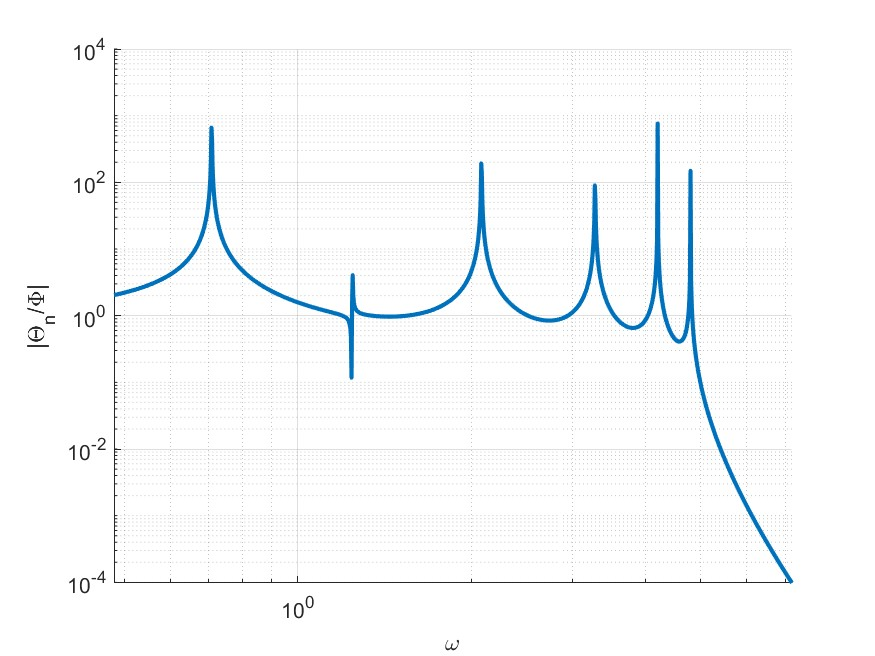
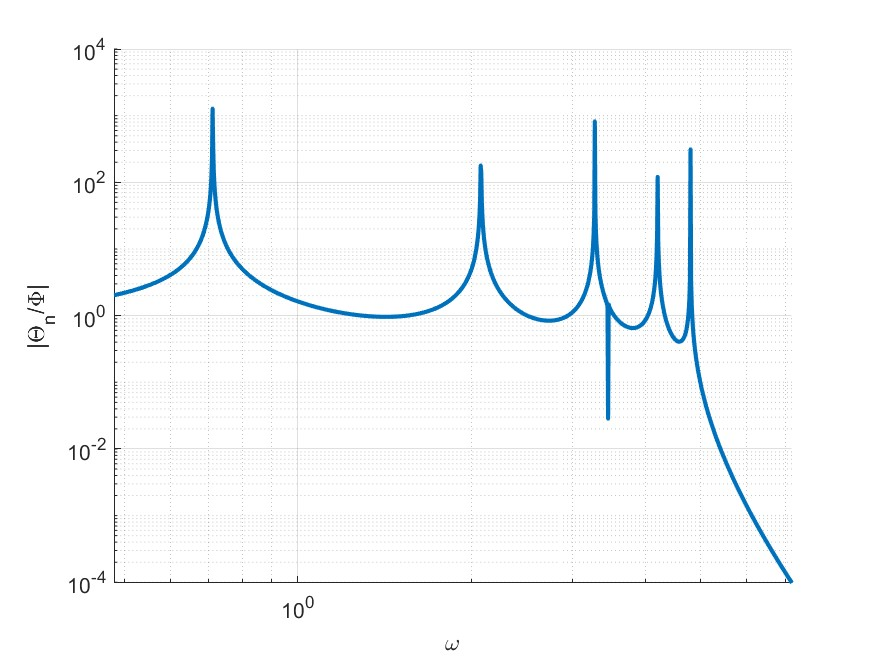
Using Multiple Searches Along Frequency

diff --git a/main.m b/main.m
@@ -327,10 +327,23 @@ function [Ia, ca, T_minimax, x_flag, x_output] = f_T_minimax(n, w, m, na, u, I, 
 end
 
 function T_max_range = f_T_max(n, w, M, C, K, k)
+    % Frequency Spots
+    w_range = [0; w; max(w) * 1.5];
     % Different Local Maximum Transmissibilities
-    T_max_range = zeros(size(w));
-    for j = 1:length(w)
-        T_max_range(j) = f_T(n, w(j), M, C, K, k);
+    T_max_range = zeros(1, length(w_range) - 1);
+    for j = 2:length(w_range)
+        % Optimization Parameter Vector
+        % [w_e]
+        % Lower Bound
+        x_1 = w_range(j - 1);
+        % Upper Bound
+        x_2 = w_range(j);
+        % Optimized Function
+        x_f = @(x) -f_T(n, x, M, C, K, k);
+        % Optimization Results
+        [~, x_fval] = fminbnd(x_f, x_1, x_2);
+        % Maximum Transmissibility
+        T_max_range(j - 1) = -x_fval;
     end
 end
 
